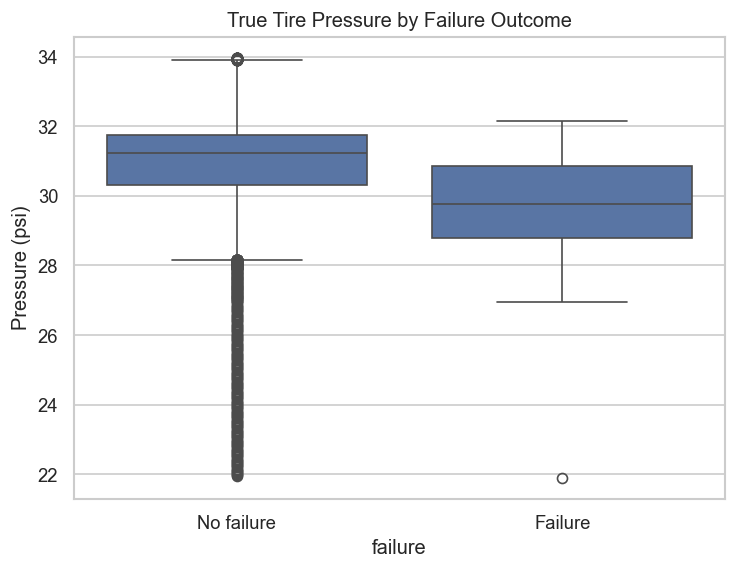
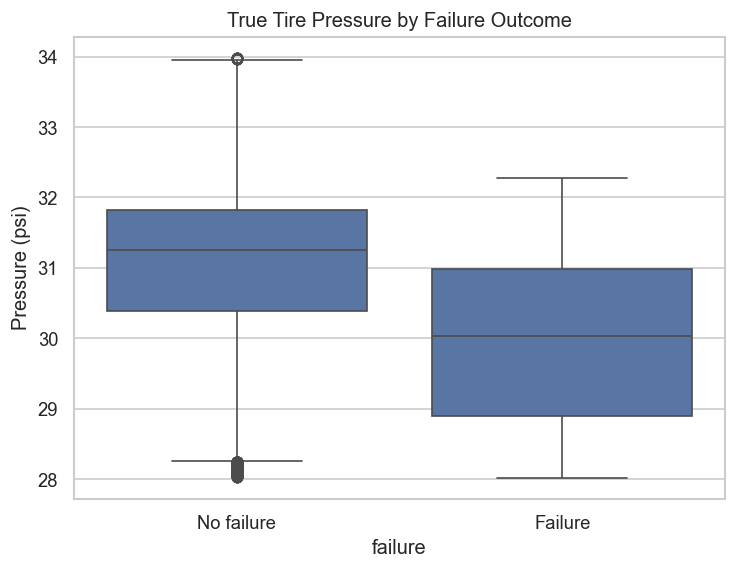
retune simulator failure-type

diff --git a/src/simulator/tire_simulator.py b/src/simulator/tire_simulator.py
@@ -59,12 +59,13 @@ class _TireContext:
     mileage: float = 0.0
     braking_history: int = 0
     maintenance_history: int = field(default=0)
+
     scripted_failure_type: Optional[str] = None
     scripted_failure_step: Optional[int] = None
 
 
 class TireTelemetrySimulator:
-
+  
     def __init__(self, config: SimulatorConfig):
         self.config = config
         self.rng = random.Random(config.random_seed)
@@ -74,48 +75,71 @@ class TireTelemetrySimulator:
         self.dt_hours = config.sampling_interval_min / 60.0
 
     def _build_fleet(self) -> list[_TireContext]:
+        total_tires = self.config.num_vehicles * self.config.tires_per_vehicle
+        tire_keys = [
+            (v, t)
+            for v in range(self.config.num_vehicles)
+            for t in range(self.config.tires_per_vehicle)
+        ]
+
+        num_scripted = round(self.config.failure_rate * total_tires)
+        scripted_indices = set(self.rng.sample(range(total_tires), k=min(num_scripted, total_tires)))
+
+        type_cycle = FAILURE_TYPES.copy()
+        self.rng.shuffle(type_cycle)
+        scripted_type_by_index: dict[int, str] = {}
+        for i, tire_index in enumerate(sorted(scripted_indices)):
+            scripted_type_by_index[tire_index] = type_cycle[i % len(type_cycle)]
+
         fleet: list[_TireContext] = []
-        for v in range(self.config.num_vehicles):
+        for tire_index, (v, t) in enumerate(tire_keys):
             vehicle_id = f"V-{v:04d}"
-            for t in range(self.config.tires_per_vehicle):
-                tire_id = f"{vehicle_id}-T{t}"
-                initial_state = TireState(
-                    pressure=self.rng.uniform(30.0, 34.0),
-                    temperature=self.rng.uniform(20.0, 28.0),
-                    tread_depth=self.rng.uniform(7.0, NEW_TREAD_DEPTH_MM),
-                    mileage=0.0,
-                    degradation=0.0,
-                )
+            tire_id = f"{vehicle_id}-T{t}"
+            initial_state = TireState(
+                pressure=self.rng.uniform(30.0, 34.0),
+                temperature=self.rng.uniform(20.0, 28.0),
+                tread_depth=self.rng.uniform(7.0, NEW_TREAD_DEPTH_MM),
+                mileage=0.0,
+                degradation=0.0,
+            )
 
-                will_fail = self.rng.random() < self.config.failure_rate
-                failure_type = self.rng.choice(FAILURE_TYPES) if will_fail else None
-                failure_step = (
-                    self.rng.randint(int(self.total_steps * 0.3), self.total_steps - 1)
-                    if will_fail
-                    else None
-                )
+            will_fail = tire_index in scripted_indices
+            failure_type = scripted_type_by_index.get(tire_index)
 
-                fleet.append(
-                    _TireContext(
-                        tire_id=tire_id,
-                        vehicle_id=vehicle_id,
-                        state=initial_state,
-                        scripted_failure_type=failure_type,
-                        scripted_failure_step=failure_step,
-                        pressure_fault=SensorFaultInjector(
-                            self.config.sensor_fault_rate, self.rng
-                        ),
-                        temperature_fault=SensorFaultInjector(
-                            self.config.sensor_fault_rate, self.rng
-                        ),
-                        tread_fault=SensorFaultInjector(
-                            self.config.sensor_fault_rate, self.rng
-                        ),
-                    )
+            lower_bound = max(1, int(self.total_steps * 0.12))
+            upper_bound = max(lower_bound + 1, int(self.total_steps * 0.45))
+            lower_bound = min(lower_bound, self.total_steps - 2)
+            upper_bound = min(upper_bound, self.total_steps - 1)
+            if upper_bound <= lower_bound:
+                upper_bound = lower_bound + 1
+            failure_step = self.rng.randint(lower_bound, upper_bound) if will_fail else None
+
+            fleet.append(
+                _TireContext(
+                    tire_id=tire_id,
+                    vehicle_id=vehicle_id,
+                    state=initial_state,
+                    scripted_failure_type=failure_type,
+                    scripted_failure_step=failure_step,
+                    pressure_fault=SensorFaultInjector(
+                        self.config.sensor_fault_rate, self.rng
+                    ),
+                    temperature_fault=SensorFaultInjector(
+                        self.config.sensor_fault_rate, self.rng
+                    ),
+                    tread_fault=SensorFaultInjector(
+                        self.config.sensor_fault_rate, self.rng
+                    ),
                 )
+            )
         return fleet
 
     def _driving_conditions(self, ctx: _TireContext, step: int) -> dict:
+        """Sample this timestep's driving conditions. If this tire is
+        scripted to fail via a stress-driven mode (overloading,
+        overheating, underinflation), conditions are biased toward that
+        stress as the failure step approaches, so the failure emerges
+        causally rather than being stamped on at the end."""
         road_type = self.rng.choice(ROAD_TYPES)
         weather = self.rng.choice(WEATHER_TYPES)
         speed_kmh = max(0.0, self.np_rng.normal(70, 20))
@@ -133,6 +157,7 @@ class TireTelemetrySimulator:
             elif ctx.scripted_failure_type == "overheating":
                 speed_kmh += progress * 60.0
             elif ctx.scripted_failure_type == "underinflation":
+                # Handled via direct pressure decay below.
                 pass
 
         has_puncture = (
@@ -154,11 +179,15 @@ class TireTelemetrySimulator:
         if ctx.scripted_failure_step is None:
             return
         if step > ctx.scripted_failure_step - 300:
+
             ctx.state.pressure = max(5.0, ctx.state.pressure - 0.03)
 
     def _label_failure(self, ctx: _TireContext, step: int, degradation: float) -> tuple[bool, str]:
         if ctx.scripted_failure_step == step:
             return True, ctx.scripted_failure_type
+
+        if ctx.scripted_failure_step is not None and step < ctx.scripted_failure_step:
+            return False, "none"
 
         if ctx.state.tread_depth <= LEGAL_MIN_TREAD_DEPTH_MM:
             return True, "structural_degradation"
@@ -243,7 +272,7 @@ class TireTelemetrySimulator:
                         "maintenance_history": ctx.maintenance_history,
                         "failure": int(failure),
                         "failure_type": failure_type,
-                
+            
                         "pressure_sensor_fault": pressure_obs.fault_type,
                         "temperature_sensor_fault": temperature_obs.fault_type,
                         "tread_sensor_fault": tread_obs.fault_type,

diff --git a/src/models/data_split.py b/src/models/data_split.py
@@ -13,11 +13,20 @@ Instead, we split by TIRE (group split): every row belonging to a given
 tire_id goes entirely into train OR entirely into test, never split
 across the two. This has two benefits:
 1. No leakage — a tire's own history never appears on both sides.
-2. Since each tire has exactly one failure event, a group split
-   naturally keeps the ratio of failure events proportional across
-   train/test, unlike a time-cutoff split which can be wildly skewed.
+2. Since most tires experience the same small number of failure
+   events, a group split keeps the ratio of failure events roughly
+   proportional across train/test — though this is no longer exactly
+   one-per-tire (see note below).
 
-With only 60 tires (60 total failures, one per tire), a SINGLE
+Note: after the Milestone 1 simulator retune (see tire_simulator.py's
+_build_fleet), a tire that fails, gets replaced, and then wears out
+again within the simulation window can accumulate more than one
+failure event. At default settings this affects a minority of tires.
+GroupKFold itself is unaffected either way — it only guarantees a
+tire's rows never split across folds, regardless of how many failures
+that tire has.
+
+With relatively few tires and failures overall, a SINGLE
 train/test split still leaves very few positive examples in whichever
 side is smaller. We use GroupKFold cross-validation instead of one
 split, reporting mean +/- std across folds, because a lone train/test

diff --git a/src/config/settings.py b/src/config/settings.py
@@ -35,7 +35,7 @@ class Settings:
     log_level: str = os.getenv("LOG_LEVEL", "INFO")
     random_seed: int = field(default_factory=lambda: _get_int("RANDOM_SEED", 42))
 
-    # ---- Paths----
+    # ---- Paths ----
     data_raw_dir: Path = field(
         default_factory=lambda: PROJECT_ROOT / os.getenv("DATA_RAW_DIR", "data/raw")
     )
@@ -48,7 +48,7 @@ class Settings:
     )
     log_dir: Path = field(default_factory=lambda: PROJECT_ROOT / "logs")
 
-    # ---- Simulator ----
+    # ---- Simulator  ----
     sim_num_vehicles: int = field(default_factory=lambda: _get_int("SIM_NUM_VEHICLES", 50))
     sim_tires_per_vehicle: int = field(
         default_factory=lambda: _get_int("SIM_TIRES_PER_VEHICLE", 4)
@@ -58,12 +58,17 @@ class Settings:
         default_factory=lambda: _get_int("SIM_SAMPLING_INTERVAL_MIN", 15)
     )
     sim_failure_rate: float = field(
-        default_factory=lambda: _get_float("SIM_FAILURE_RATE", 0.05)
+        default_factory=lambda: _get_float("SIM_FAILURE_RATE", 0.4)
     )
 
     def ensure_directories(self) -> None:
+        """Create data/model/log directories if they don't exist yet.
 
+        Idempotent — safe to call on every startup.
+        """
         for path in (self.data_raw_dir, self.data_processed_dir, self.model_dir, self.log_dir):
             path.mkdir(parents=True, exist_ok=True)
 
+
+# Singleton settings instance used throughout the app.
 settings = Settings()

diff --git a/docs/model_evaluation.md b/docs/model_evaluation.md
@@ -4,8 +4,8 @@
 
 ## Dataset
 
-- Total rows: **86,400**
-- Total failures: **60** (0.0694% of rows)
+- Total rows: **115,200**
+- Total failures: **80** (0.0694% of rows)
 - Class imbalance ratio (negative:positive): **1439.0:1**
 
 ## Why Tire-Level Cross-Validation (Not a Single Time-Based Split)
@@ -16,35 +16,35 @@ A global timestamp cutoff was evaluated first and rejected: every failure in thi
 
 | Model | Precision | Recall | F1 | ROC-AUC | PR-AUC |
 |---|---|---|---|---|---|
-| Logistic Regression | 0.0017 ± 0.0003 | 0.5667 ± 0.0972 | 0.0033 ± 0.0006 | 0.7308 ± 0.0466 | 0.0038 ± 0.0013 |
-| Random Forest | 0.2201 ± 0.1241 | 0.4167 ± 0.1178 | 0.2555 ± 0.0873 | 0.9568 ± 0.0352 | 0.2825 ± 0.0956 |
-| XGBoost | 0.2655 ± 0.1446 | 0.4333 ± 0.1616 | 0.3194 ± 0.1439 | 0.9453 ± 0.0407 | 0.2882 ± 0.1584 |
+| Logistic Regression | 0.0015 ± 0.0004 | 0.5875 ± 0.0935 | 0.003 ± 0.0007 | 0.7132 ± 0.0404 | 0.0024 ± 0.0007 |
+| Random Forest | 0.4558 ± 0.1326 | 0.65 ± 0.0848 | 0.5183 ± 0.0818 | 0.9888 ± 0.0167 | 0.5525 ± 0.0708 |
+| XGBoost | 0.2761 ± 0.1407 | 0.525 ± 0.0935 | 0.3534 ± 0.1338 | 0.9866 ± 0.0125 | 0.3371 ± 0.2027 |
 
 ## Per-Fold Detail
 
 ### Logistic Regression
 
-- Fold 0: 12 tires, 17280 rows, 12 failures — precision=0.0021, recall=0.6667, f1=0.0043, roc_auc=0.7167, pr_auc=0.0038
-- Fold 1: 12 tires, 17280 rows, 12 failures — precision=0.0017, recall=0.5833, f1=0.0035, roc_auc=0.7051, pr_auc=0.0014
-- Fold 2: 12 tires, 17280 rows, 12 failures — precision=0.0016, recall=0.5, f1=0.0031, roc_auc=0.7494, pr_auc=0.0043
-- Fold 3: 12 tires, 17280 rows, 12 failures — precision=0.0012, recall=0.4167, f1=0.0025, roc_auc=0.6729, pr_auc=0.0051
-- Fold 4: 12 tires, 17280 rows, 12 failures — precision=0.0017, recall=0.6667, f1=0.0033, roc_auc=0.8101, pr_auc=0.0042
+- Fold 0: 16 tires, 23040 rows, 16 failures — precision=0.0015, recall=0.75, f1=0.003, roc_auc=0.758, pr_auc=0.0037
+- Fold 1: 16 tires, 23040 rows, 16 failures — precision=0.0015, recall=0.625, f1=0.003, roc_auc=0.7554, pr_auc=0.0017
+- Fold 2: 16 tires, 23040 rows, 16 failures — precision=0.0012, recall=0.5, f1=0.0023, roc_auc=0.6697, pr_auc=0.0021
+- Fold 3: 16 tires, 23040 rows, 16 failures — precision=0.0012, recall=0.5, f1=0.0025, roc_auc=0.6639, pr_auc=0.0019
+- Fold 4: 16 tires, 23040 rows, 16 failures — precision=0.0022, recall=0.5625, f1=0.0043, roc_auc=0.719, pr_auc=0.0025
 
 ### Random Forest
 
-- Fold 0: 12 tires, 17280 rows, 12 failures — precision=0.0769, recall=0.3333, f1=0.125, roc_auc=0.9196, pr_auc=0.309
-- Fold 1: 12 tires, 17280 rows, 12 failures — precision=0.2692, recall=0.5833, f1=0.3684, roc_auc=0.9101, pr_auc=0.3601
-- Fold 2: 12 tires, 17280 rows, 12 failures — precision=0.1176, recall=0.5, f1=0.1905, roc_auc=0.9827, pr_auc=0.0944
-- Fold 3: 12 tires, 17280 rows, 12 failures — precision=0.4286, recall=0.25, f1=0.3158, roc_auc=0.9742, pr_auc=0.3315
-- Fold 4: 12 tires, 17280 rows, 12 failures — precision=0.2083, recall=0.4167, f1=0.2778, roc_auc=0.9975, pr_auc=0.3174
+- Fold 0: 16 tires, 23040 rows, 16 failures — precision=0.3824, recall=0.8125, f1=0.52, roc_auc=0.9981, pr_auc=0.6466
+- Fold 1: 16 tires, 23040 rows, 16 failures — precision=0.2632, recall=0.625, f1=0.3704, roc_auc=0.9945, pr_auc=0.4525
+- Fold 2: 16 tires, 23040 rows, 16 failures — precision=0.5556, recall=0.625, f1=0.5882, roc_auc=0.9991, pr_auc=0.6002
+- Fold 3: 16 tires, 23040 rows, 16 failures — precision=0.4348, recall=0.625, f1=0.5128, roc_auc=0.9968, pr_auc=0.4924
+- Fold 4: 16 tires, 23040 rows, 16 failures — precision=0.6429, recall=0.5625, f1=0.6, roc_auc=0.9556, pr_auc=0.5709
 
 ### XGBoost
 
-- Fold 0: 12 tires, 17280 rows, 12 failures — precision=0.4118, recall=0.5833, f1=0.4828, roc_auc=0.8947, pr_auc=0.3833
-- Fold 1: 12 tires, 17280 rows, 12 failures — precision=0.1481, recall=0.3333, f1=0.2051, roc_auc=0.9093, pr_auc=0.1716
-- Fold 2: 12 tires, 17280 rows, 12 failures — precision=0.2059, recall=0.5833, f1=0.3043, roc_auc=0.9861, pr_auc=0.3062
-- Fold 3: 12 tires, 17280 rows, 12 failures — precision=0.1, recall=0.1667, f1=0.125, roc_auc=0.9387, pr_auc=0.0635
-- Fold 4: 12 tires, 17280 rows, 12 failures — precision=0.4615, recall=0.5, f1=0.48, roc_auc=0.9976, pr_auc=0.5164
+- Fold 0: 16 tires, 23040 rows, 16 failures — precision=0.2368, recall=0.5625, f1=0.3333, roc_auc=0.9972, pr_auc=0.3206
+- Fold 1: 16 tires, 23040 rows, 16 failures — precision=0.1522, recall=0.4375, f1=0.2258, roc_auc=0.9951, pr_auc=0.1411
+- Fold 2: 16 tires, 23040 rows, 16 failures — precision=0.2, recall=0.5, f1=0.2857, roc_auc=0.9924, pr_auc=0.147
+- Fold 3: 16 tires, 23040 rows, 16 failures — precision=0.55, recall=0.6875, f1=0.6111, roc_auc=0.9856, pr_auc=0.6957
+- Fold 4: 16 tires, 23040 rows, 16 failures — precision=0.2414, recall=0.4375, f1=0.3111, roc_auc=0.9628, pr_auc=0.3809
 
 ## Why PR-AUC Matters More Than ROC-AUC Here
 

diff --git a/docs/eda_findings.md b/docs/eda_findings.md
@@ -4,17 +4,15 @@
 
 ## Dataset Overview
 
-- Rows: **86,400**
-- Unique tires: **60**
-- Unique vehicles: **15**
+- Rows: **115,200**
+- Unique tires: **80**
+- Unique vehicles: **20**
 - Date range: **2026-01-01 00:00:00** to **2026-01-30 23:30:00**
 - Overall failure rate: **0.0694%** of rows
 
 ## Failure Type Distribution
 
-- `structural_degradation`: 58
-- `sensor_malfunction`: 1
-- `overloading`: 1
+- `structural_degradation`: 80
 
 ![Failure type distribution](figures/failure_type_distribution.png)
 
@@ -22,8 +20,8 @@
 
 ## Pressure and Temperature vs. Failure Outcome
 
-- Mean true pressure — failed rows: **29.743** psi vs. non-failed rows: **31.027** psi
-- Mean true temperature — failed rows: **30.025** °C vs. non-failed rows: **27.529** °C
+- Mean true pressure — failed rows: **30.042** psi vs. non-failed rows: **31.1** psi
+- Mean true temperature — failed rows: **28.665** °C vs. non-failed rows: **27.421** °C
 
 ![Pressure by failure](figures/pressure_by_failure.png)
 
@@ -39,33 +37,33 @@
 
 ![Sensor fault distribution](figures/sensor_fault_distribution.png)
 
-- `pressure_sensor_fault`: {'none': 60544, 'drift': 22153, 'stuck': 2821, 'spoofed': 457, 'missing': 425}
-- `temperature_sensor_fault`: {'none': 61180, 'drift': 21385, 'stuck': 2902, 'missing': 475, 'spoofed': 458}
-- `tread_sensor_fault`: {'none': 56060, 'drift': 26998, 'stuck': 2438, 'missing': 460, 'spoofed': 444}
+- `pressure_sensor_fault`: {'none': 80899, 'drift': 29091, 'stuck': 3911, 'spoofed': 661, 'missing': 638}
+- `temperature_sensor_fault`: {'none': 79300, 'drift': 31197, 'stuck': 3491, 'missing': 615, 'spoofed': 597}
+- `tread_sensor_fault`: {'none': 77855, 'drift': 32423, 'stuck': 3711, 'missing': 619, 'spoofed': 592}
 
-**Important finding:** `drift` alone accounts for **25.6%** of `pressure_sensor_fault` rows — far above the configured 3% sensor fault rate. This is expected given the simulator's design (drift persists across many consecutive steps once triggered, with only a small per-step chance of self-correcting), but it means the `sensor_fault_rate` config parameter does NOT directly correspond to "percent of rows affected" — it's closer to "percent of steps where a NEW fault episode begins." Worth fixing the parameter's naming/semantics or the persistence model before Milestone 7 relies on it.
+**Important finding:** `drift` alone accounts for **25.3%** of `pressure_sensor_fault` rows — far above the configured 3% sensor fault rate. This is expected given the simulator's design (drift persists across many consecutive steps once triggered, with only a small per-step chance of self-correcting), but it means the `sensor_fault_rate` config parameter does NOT directly correspond to "percent of rows affected" — it's closer to "percent of steps where a NEW fault episode begins." Worth fixing the parameter's naming/semantics or the persistence model before Milestone 7 relies on it.
 
 ## Missing-Value Imputation Summary
 
-- `pressure`: 0.492% of rows were imputed (forward/backward-filled per tire)
-- `temperature`: 0.55% of rows were imputed (forward/backward-filled per tire)
-- `tread_depth`: 0.532% of rows were imputed (forward/backward-filled per tire)
+- `pressure`: 0.554% of rows were imputed (forward/backward-filled per tire)
+- `temperature`: 0.534% of rows were imputed (forward/backward-filled per tire)
+- `tread_depth`: 0.537% of rows were imputed (forward/backward-filled per tire)
 
 ## Correlation Between Core Variables
 
 ![Correlation heatmap](figures/correlation_heatmap.png)
 
-- Pressure–temperature correlation (true values): **-0.2909** — negative, consistent with the simulator's underinflation→heat causal rule (lower pressure is associated with higher temperature).
+- Pressure–temperature correlation (true values): **-0.259** — negative, consistent with the simulator's underinflation→heat causal rule (lower pressure is associated with higher temperature).
 
 ## Descriptive Statistics
 
 | Variable | Mean | Std | Min | Max |
 |---|---|---|---|---|
-| pressure_true | 31.026 | 1.153 | 21.902 | 33.982 |
-| temperature_true | 27.531 | 3.943 | 16.023 | 51.96 |
-| tread_depth_true | 6.175 | 2.273 | 1.586 | 9.998 |
-| speed | 70.077 | 19.998 | 0.0 | 151.71 |
-| load | 500.143 | 81.122 | 172.84 | 1270.82 |
+| pressure_true | 31.099 | 1.129 | 28.024 | 33.987 |
+| temperature_true | 27.422 | 3.891 | 15.909 | 43.289 |
+| tread_depth_true | 6.113 | 2.267 | 1.588 | 9.997 |
+| speed | 70.061 | 19.994 | 0.0 | 151.71 |
+| load | 499.541 | 80.072 | 172.84 | 892.9 |
 
 ## Known Limitations Carried Into Milestone 3
 
